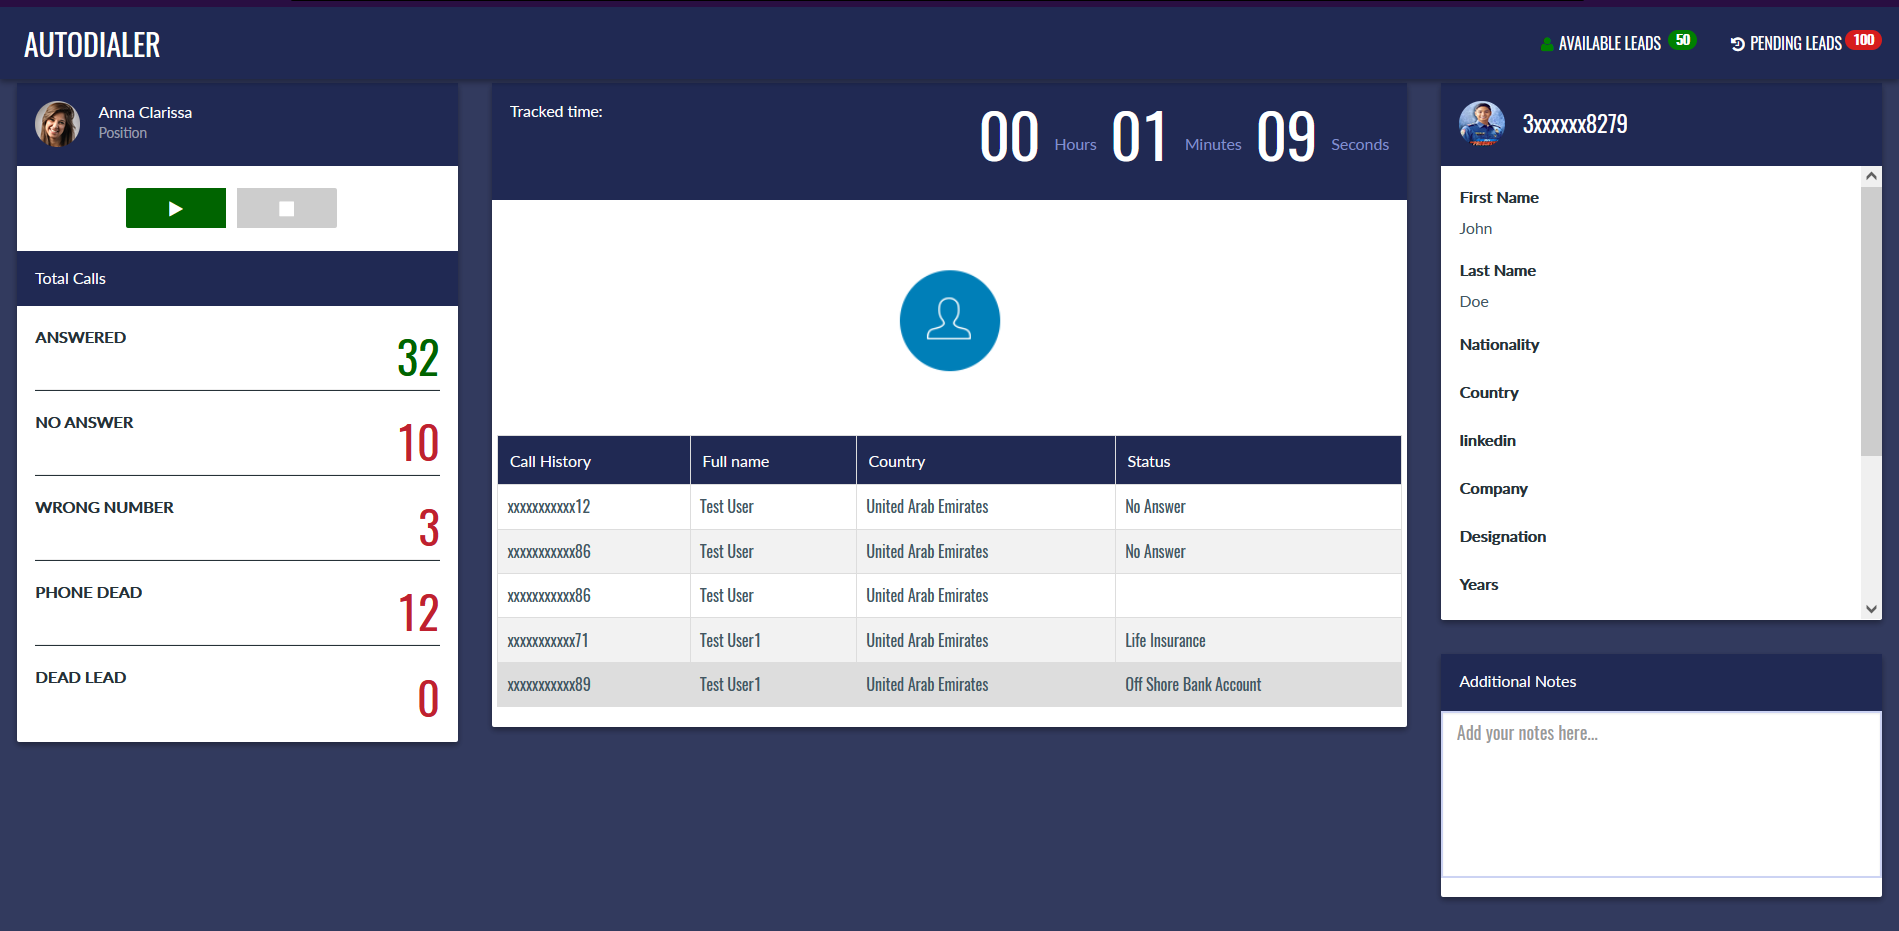
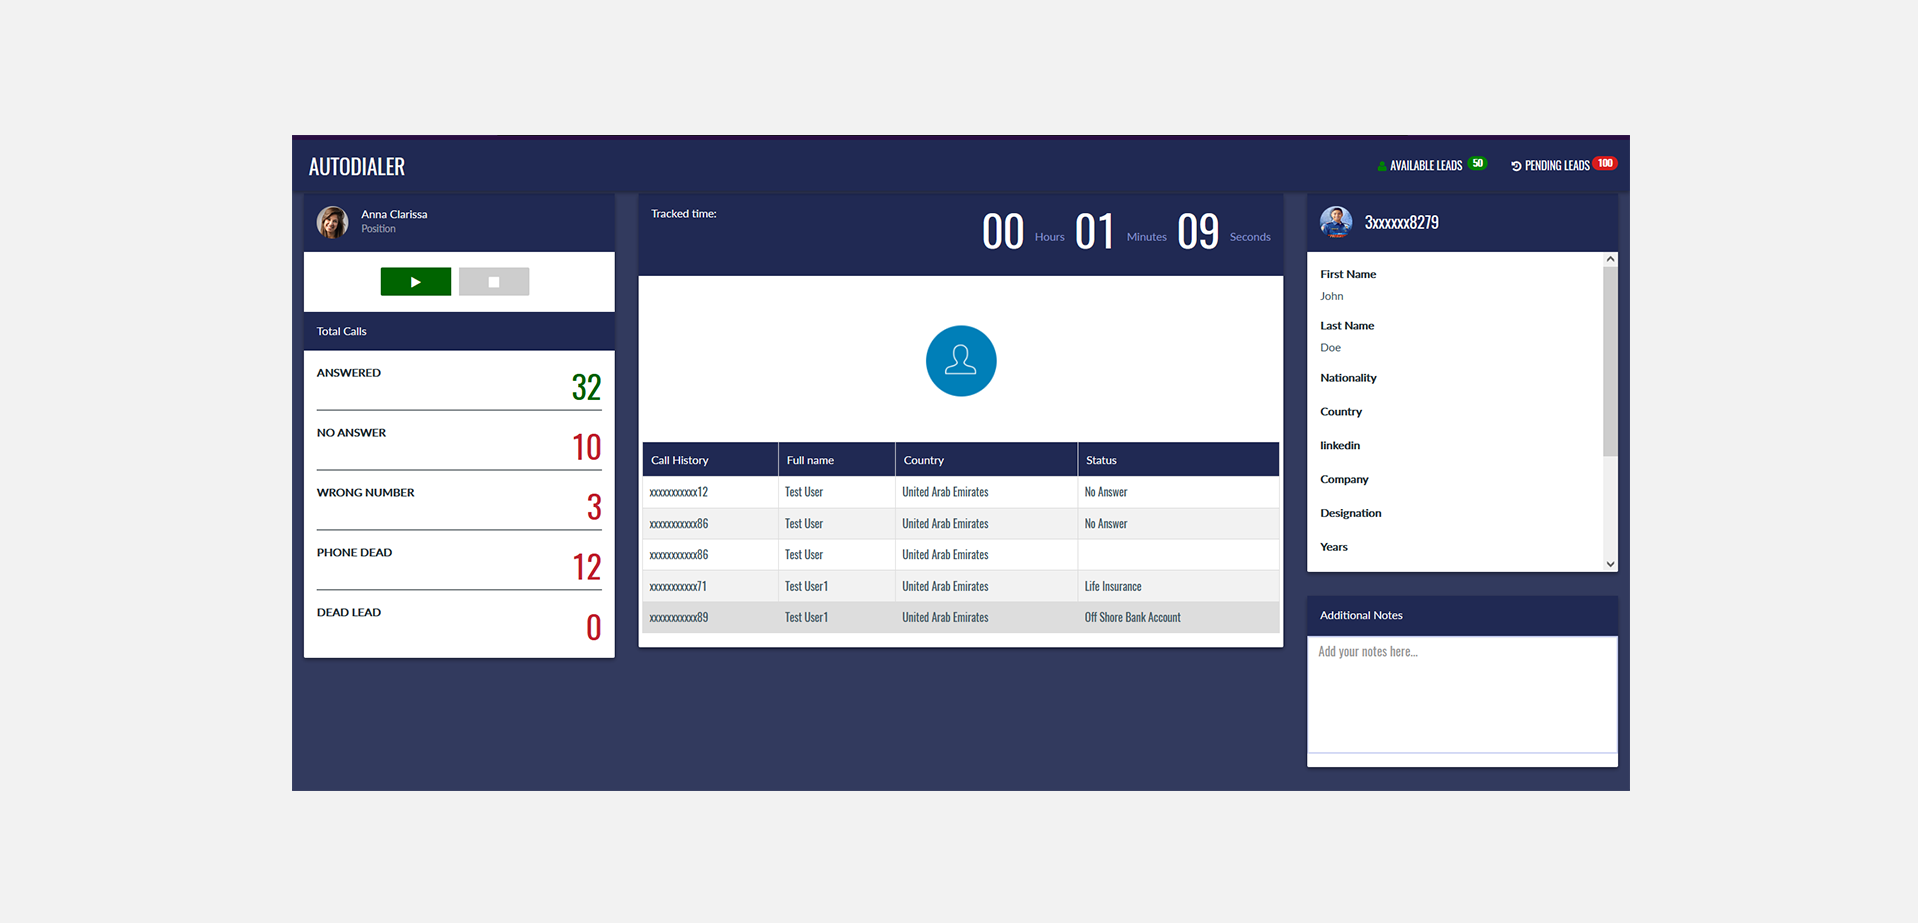
update preview

diff --git a/index.html b/index.html
@@ -147,7 +147,7 @@
             <button class="modal-cta" onclick="setModal('HELPDESK', '2019')">Visuals</button>
           </div>
           <div class="project-img">
-            <img src="./img/projects/Helpdesk/Login.png" alt="img">
+            <img src="./img/projects/Helpdesk/main.png" alt="img">
           </div>
         </div>
         <div class="project-item">
@@ -167,7 +167,7 @@
             <button class="modal-cta" onclick="setModal('AUTODIALER', '2019')">Visuals</button>
           </div>
           <div class="project-img">
-            <img src="./img/projects/Autodialer/Login.png" alt="img">
+            <img src="./img/projects/Autodialer/Main.png" alt="img">
           </div>
         </div>
 
